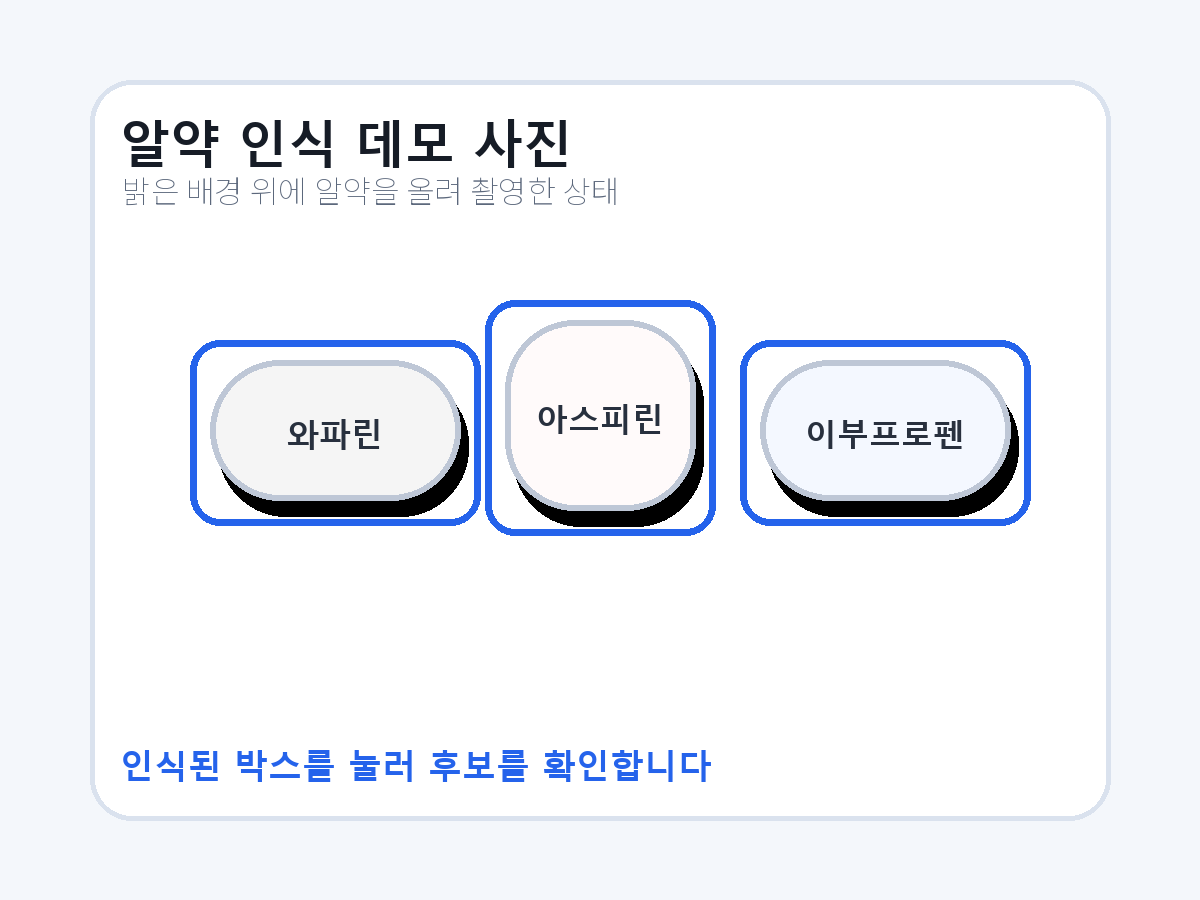
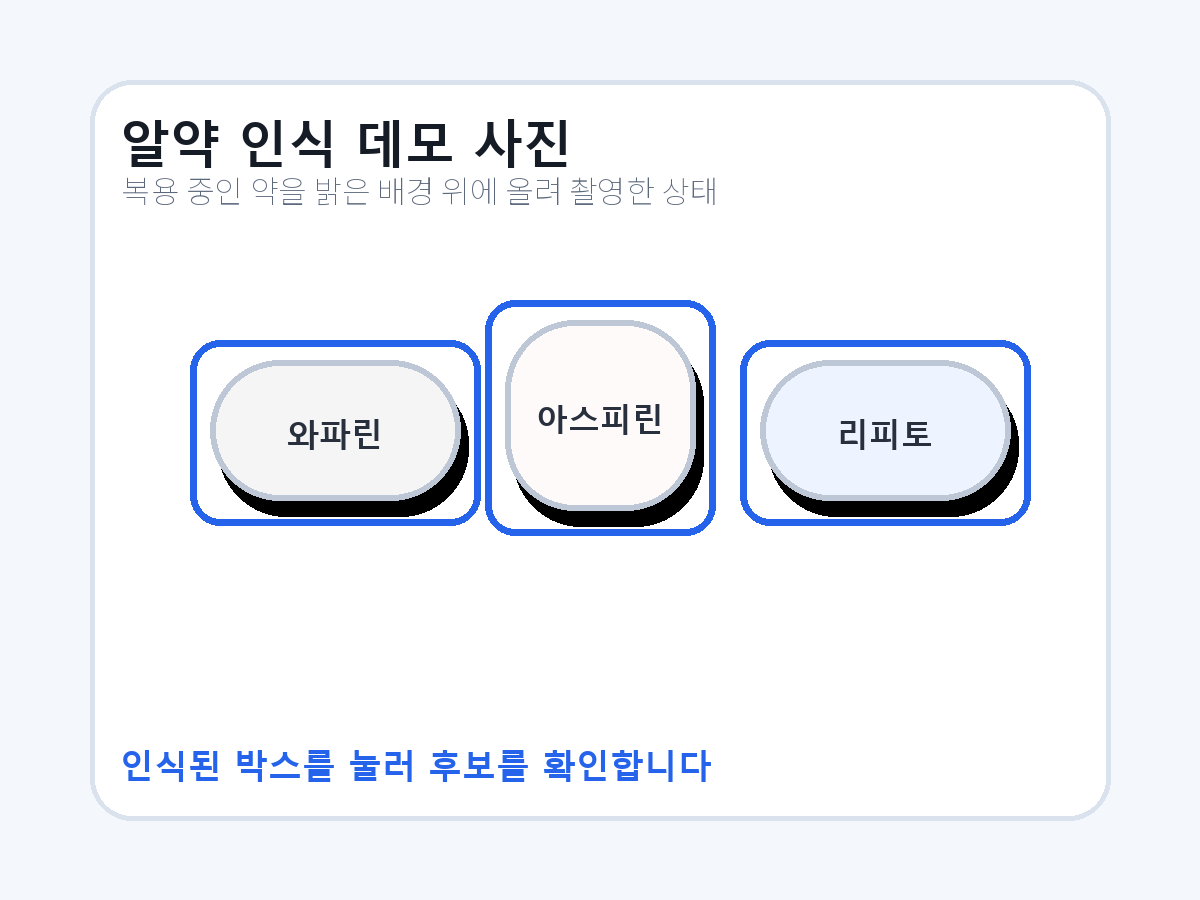
Make demo analysis results more realistic

Changed region(s): [[0.0925, 0.1867, 0.5858, 0.2489], [0.6783, 0.4667, 0.8017, 0.4978]]

diff --git a/click/services/demo-recognition.ts b/click/services/demo-recognition.ts
@@ -12,10 +12,10 @@ const DEMO_IMAGES = {
   pillSource: require('@/assets/images/demo/demo-pill-source.png'),
   warfarin: require('@/assets/images/demo/demo-pill-warfarin.png'),
   aspirin: require('@/assets/images/demo/demo-pill-aspirin.png'),
-  ibuprofen: require('@/assets/images/demo/demo-pill-ibuprofen.png'),
+  lipitor: require('@/assets/images/demo/demo-pill-lipitor.png'),
   omega3: require('@/assets/images/demo/demo-supp-omega3.png'),
   ginkgo: require('@/assets/images/demo/demo-supp-ginkgo.png'),
-  garlic: require('@/assets/images/demo/demo-supp-garlic.png'),
+  vitaminD: require('@/assets/images/demo/demo-supp-vitamin-d.png'),
 };
 
 function pill(
@@ -106,12 +106,12 @@ const PILL_DEMOS: DemoRecognitionSet[] = [
   {
     id: 'bleeding-pill',
     title: '데모용 알약 세트',
-    subtitle: '항응고제와 진통소염제',
+    subtitle: '항응고제와 심혈관계 약',
     category: '알약',
     items: [
-      pill('demo-pill-warfarin', '와파린정', '5mg', ['와파린'], ['warfarin'], DEMO_IMAGES.warfarin, [190, 340, 480, 525]),
-      pill('demo-pill-aspirin', '아스피린프로텍트정', '100mg', ['아스피린'], ['aspirin'], DEMO_IMAGES.aspirin, [485, 300, 715, 535]),
-      pill('demo-pill-ibuprofen', '이부프로펜정', '200mg', ['이부프로펜'], ['ibuprofen'], DEMO_IMAGES.ibuprofen, [740, 340, 1030, 525]),
+      pill('demo-pill-warfarin', '와파린정', '5mg', ['와파린'], [], DEMO_IMAGES.warfarin, [190, 340, 480, 525]),
+      pill('demo-pill-aspirin', '아스피린프로텍트정', '100mg', ['아스피린'], [], DEMO_IMAGES.aspirin, [485, 300, 715, 535]),
+      pill('demo-pill-lipitor', '리피토정', '10mg', ['아토르바스타틴'], ['리피토'], DEMO_IMAGES.lipitor, [740, 340, 1030, 525]),
     ],
   },
   {
@@ -142,12 +142,12 @@ const SUPPLEMENT_DEMOS: DemoRecognitionSet[] = [
   {
     id: 'bleeding-supplement',
     title: '데모용 건강기능식품 세트',
-    subtitle: '오메가3·은행잎·마늘',
+    subtitle: '오메가3·은행잎·비타민D',
     category: '건강기능식품 라벨',
     items: [
-      supplement('demo-supp-omega3', '오메가-3', ['EPA 및 DHA 함유 유지'], 'EPA/DHA 1,000mg', [], ['오메가-3'], DEMO_IMAGES.omega3),
+      supplement('demo-supp-omega3', '오메가-3', ['오메가-3'], 'EPA/DHA 1,000mg', [], ['오메가-3'], DEMO_IMAGES.omega3),
       supplement('demo-supp-ginkgo', '은행잎 추출물', ['은행잎'], '플라보놀배당체 28mg', ['Ginkgo'], ['은행잎'], DEMO_IMAGES.ginkgo),
-      supplement('demo-supp-garlic', '마늘 추출물', ['마늘'], '마늘분말 500mg', ['Garlic'], ['마늘'], DEMO_IMAGES.garlic),
+      supplement('demo-supp-vitamin-d', '비타민 D', ['비타민 D'], '1,000IU', [], ['비타민 D'], DEMO_IMAGES.vitaminD),
     ],
   },
   {

diff --git a/click/app/analysis.tsx b/click/app/analysis.tsx
@@ -121,7 +121,8 @@ function uniqueNames(values: (string | null | undefined)[]) {
 }
 
 function analysisNamesFor(item: RecognizedItem) {
-  return uniqueNames([...(item.ingredients ?? []), ...(item.analysisNames ?? [])]);
+  if (item.ingredients?.length) return uniqueNames(item.ingredients);
+  return uniqueNames(item.analysisNames ?? []);
 }
 
 function AnalyzedIngredientSummary({ result, items, lowVision }: { result: AnalysisResult; items: RecognizedItem[]; lowVision: boolean }) {